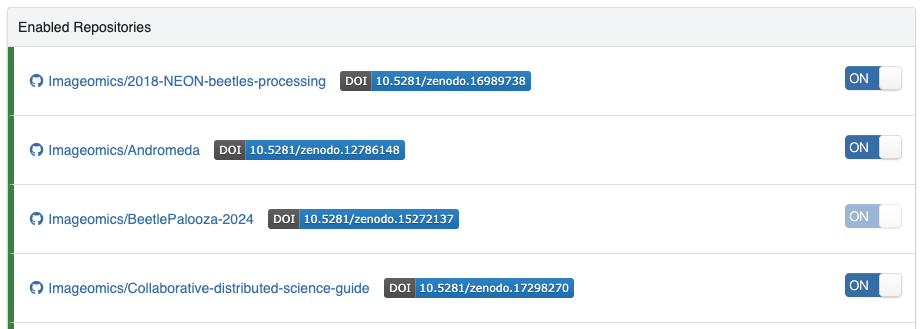
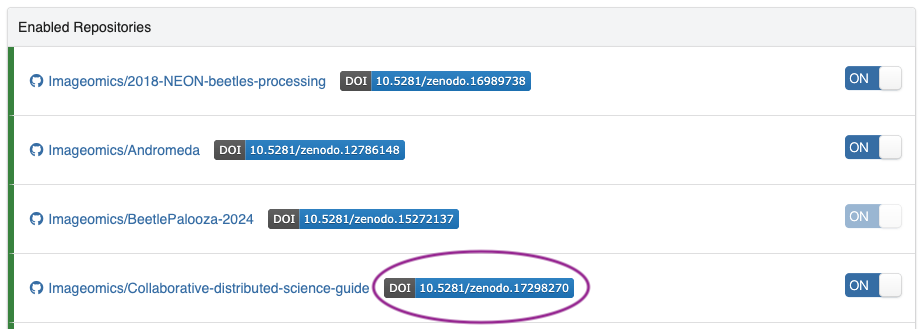
Reformat for clarity, add new image, improve alt text

Changed region(s): [[0.3944, 0.8207, 0.6067, 1.0], [0.4247, 0.7599, 0.6371, 0.8511], [0.6067, 0.8815, 0.6371, 0.9422]]

diff --git a/docs/wiki-guide/DOI-Generation.md b/docs/wiki-guide/DOI-Generation.md
@@ -69,15 +69,19 @@ When creating a new record on Zenodo, please ensure that other members of your p
 
 Congratulations, your repository has been archived on Zenodo! Now, how do you get the nice badge to display on your GitHub `README` so everyone knows it has been archived?
 
-1. Navigate to your account settings and select "GitHub" and find the repo that has just been updated.
+1. Navigate to your account settings and select "GitHub" (see earlier screenshot at [automatic generation](#automatic-generation) for what the page looks like).
 
-    ![Screenshot of GitHub Integration enabled repos with their DOI badges next to their names](images/doi-generation/enabled_repos_badges.png)
+2. Find the repo that has just been updated in the "Enabled Repositories" list (we'll use this guide's repo for the example), and click on the badge next to the repo's name:
 
-2. Click on the badge next to the repo for which you need to add the badge, the pop up will look something like this:
+    ![Screenshot of GitHub Integration enabled repos with their DOI badges next to their names, the DOI badge next to the collaborative distributed science guide is circled](images/doi-generation/enabled_repos_badges.png)
 
-    ![Screenshot of Zenodo DOI badge rendering options, only Markdown version fully shown](images/doi-generation/badge-markdown.png)
+    The pop up will look something like this:
+
+    ![Screenshot of Zenodo DOI badge rendering options, only Markdown version fully shown: '[![DOI](https://zenodo.org/badge/1038590952.svg)](https://doi.org/10.5281/zenodo.17210328)'](images/doi-generation/badge-markdown.png)
 
 3. Copy the Markdown text and paste it next to your `README` title. Note that the DOI URL should be the _version agnostic_ DOI (this is the one you will add to your `CITATION.cff`, as noted in the [GitHub Repo Guide](GitHub-Repo-Guide.md#citation))
+
+    ![Screenshot of collaborative distributed science guide repo README file header in the GitHub UI with the badge text from above next to the title](images/doi-generation/README-badge-paste.png)
 
 This only has to be done once; using the version agnostic DOI with the general SVG means the badge will be updated to always display the DOI of the latest release and it will link to that Zenodo record.
 
